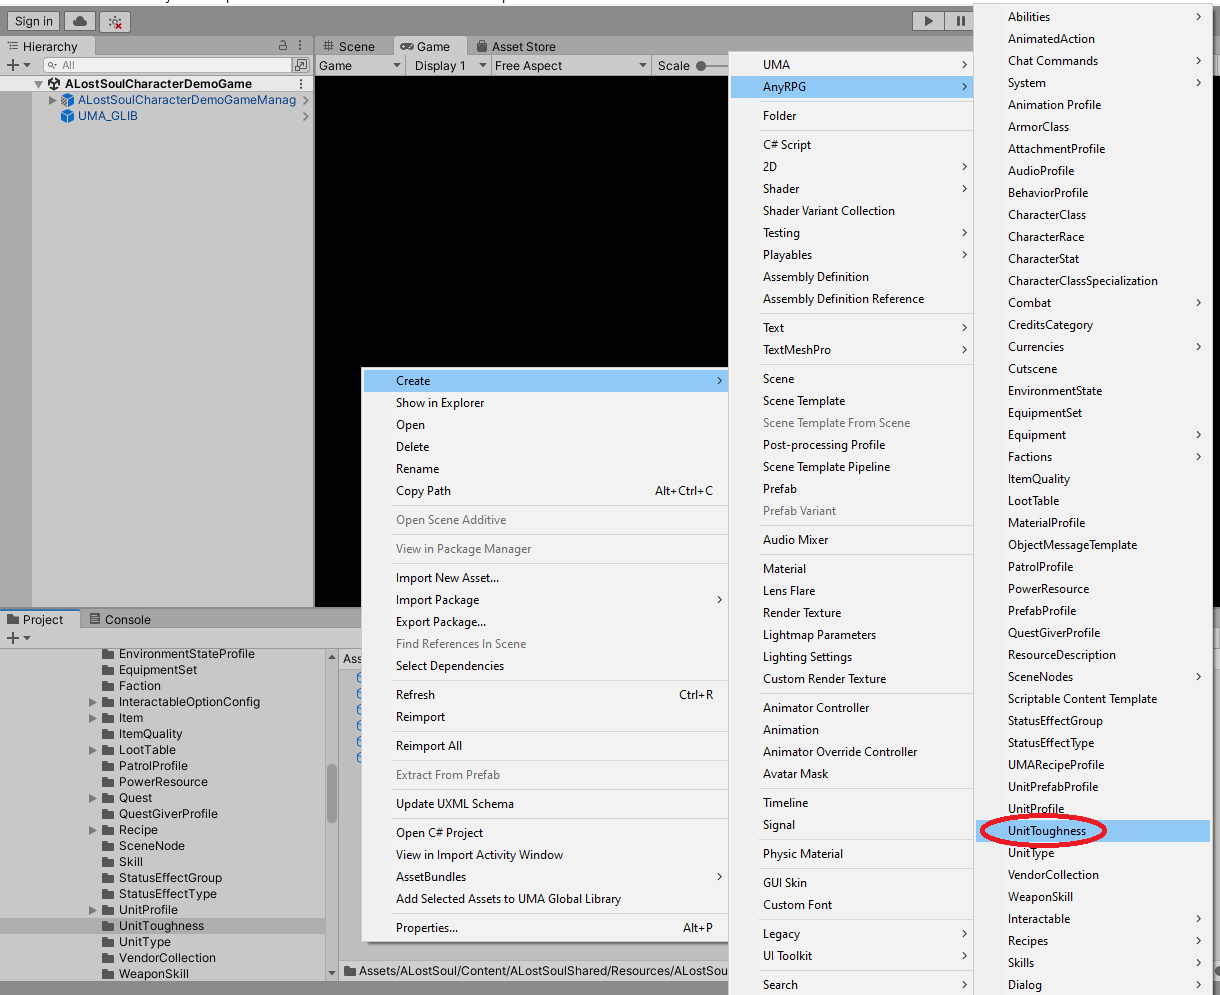
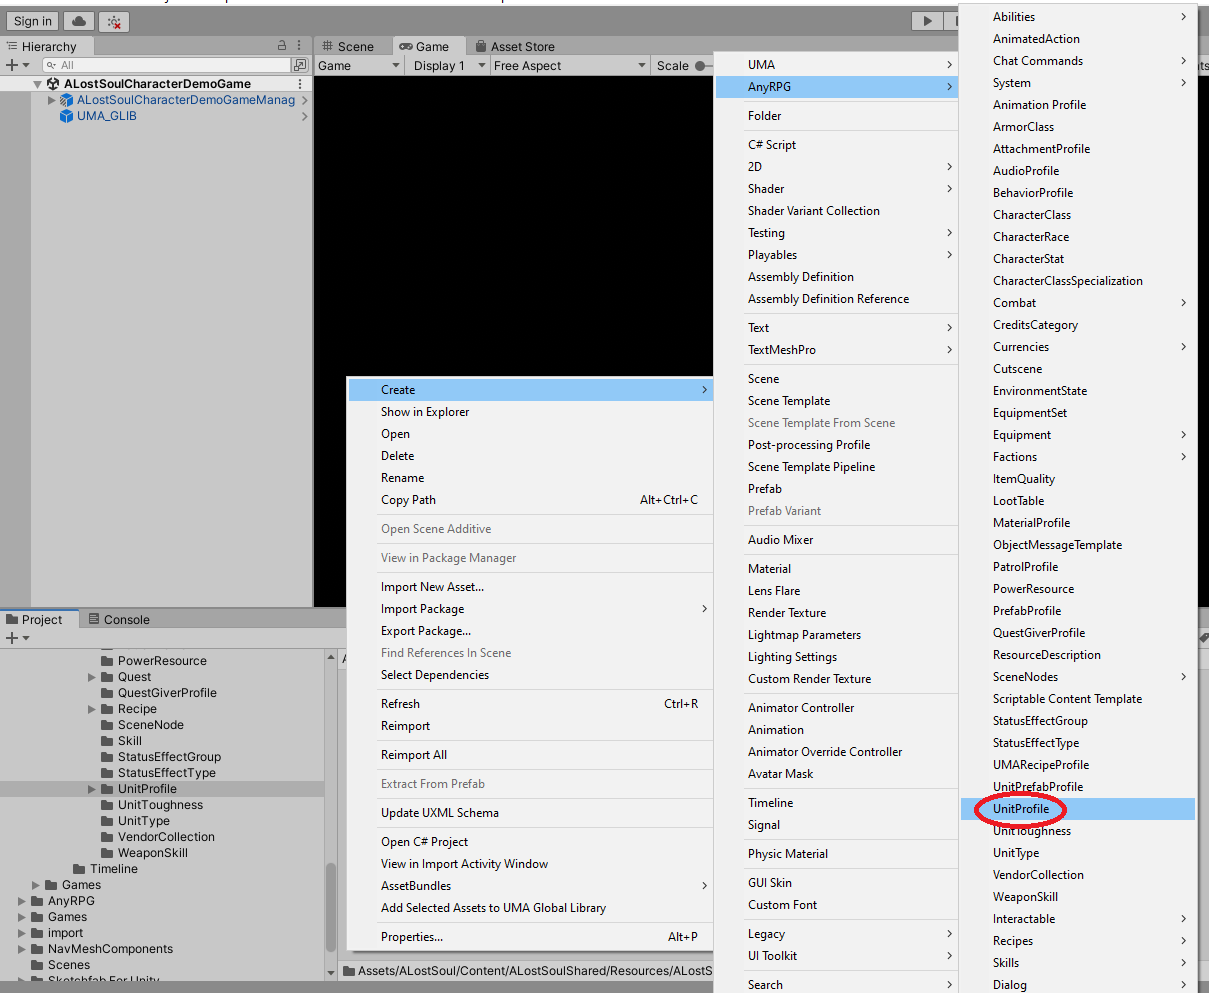
GitBook: [#67] add behavior config documentation

diff --git a/scriptable-objects/interactable-option-configurations/behavior-config.md b/scriptable-objects/interactable-option-configurations/behavior-config.md
@@ -1,5 +1,23 @@
+---
+description: >-
+  A behavior config creates a behavior interactable options, allowing automatic
+  or player initiated behaviors to be run by a character.
+---
+
 # Behavior Config
 
-{% hint style="info" %}
-Coming Soon
-{% endhint %}
+## Creation
+
+To create a behavior config, find (or create) the _GameName/Resources/GameName/InteractableOptionConfig_ folder in the project tab and right click.  Choose _Create > AnyRPG > Interactable > BehaviorConfig_.
+
+![](../../.gitbook/assets/image.png)
+
+## Properties
+
+| Name           | Description                                                            |
+| -------------- | ---------------------------------------------------------------------- |
+| Behavior Names | A list of [Behavior Profiles](../behavior-profile.md) that can be run. |
+
+## Next Steps
+
+* Add a behavior config to a [Unit Profile](../unit-profile.md) to allow the character to run behaviors.

diff --git a/scriptable-objects/interactable-option-configurations/bank-config.md b/scriptable-objects/interactable-option-configurations/bank-config.md
@@ -8,9 +8,9 @@ description: >-
 
 ## Creation
 
-To create a faction, find (or create) the _GameName/Resources/GameName/InteractableOptionConfig_ folder in the project tab and right click.  Choose _Create > AnyRPG > Interactable > BankConfig_.
+To create a bank config, find (or create) the _GameName/Resources/GameName/InteractableOptionConfig_ folder in the project tab and right click.  Choose _Create > AnyRPG > Interactable > BankConfig_.
 
-![](../../.gitbook/assets/image.png)
+![](<../../.gitbook/assets/image (1).png>)
 
 ## Properties
 

diff --git a/scriptable-objects/unit-toughness.md b/scriptable-objects/unit-toughness.md
@@ -10,7 +10,7 @@ description: >-
 
 To create a unit toughness, find (or create) the _GameName/Resources/GameName/UnitToughness_ folder in the project tab and right click.  Choose _Create > AnyRPG > UnitToughness_.
 
-![](<../.gitbook/assets/image (1) (4).png>)
+![](<../.gitbook/assets/image (1) (4) (1).png>)
 
 ## Properties
 

diff --git a/scriptable-objects/unit-profile.md b/scriptable-objects/unit-profile.md
@@ -10,7 +10,7 @@ description: >-
 
 To create a unit profile, find (or create) the _GameName/Resources/GameName/UnitProfile_ folder in the project tab and right click.  Choose _Create > AnyRPG > UnitProfile_.
 
-![](<../.gitbook/assets/image (1).png>)
+![](<../.gitbook/assets/image (1) (4).png>)
 
 ## Properties
 
